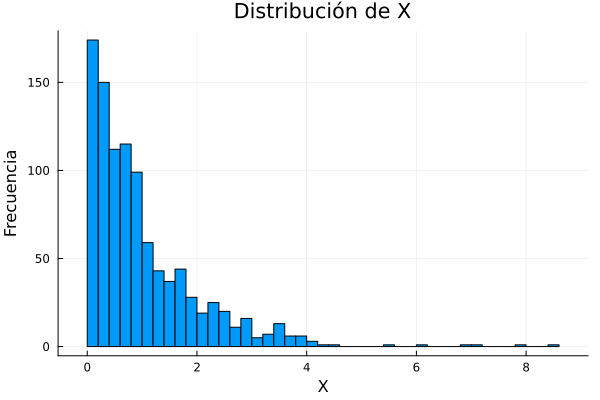
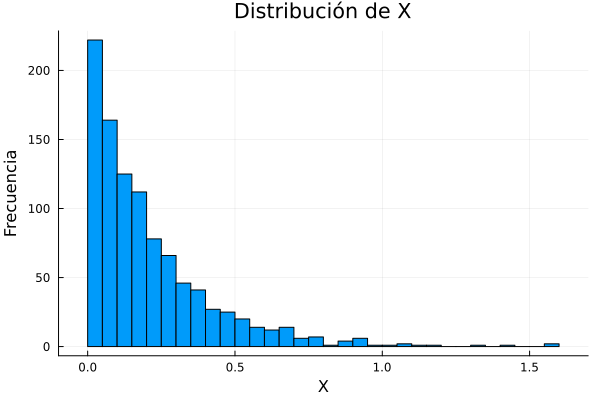
afinando detalles

diff --git a/README.md b/README.md
@@ -1,18 +1,18 @@
 # Blog
 
-En este repositorio está el código fuente para generar [mi blog](https://fcoavc.github.io/).
+En este repositorio está el código fuente para generar [mi blog](https://fcoavc.github.io/blog).
 
 En sitio se usa [Jekyll](https://jekyllrb.com/) para construir nuevos posts en el sitio.
 
 Simplemente se crea un nuevo archivo `yyyy-mm-dd-nombre.md` en la carpeta `docs/_posts` y automáticamente se incluirá en el blog.
 
-Para poder trabajar con los archivos markdown, se deben incluir los siguientes mestadatos en formato yaml:
+Para poder trabajar con los archivos markdown, se deben incluir los siguientes metadatos en formato yaml:
 
 - layout: post
-- title:  "Simulación de variables aleatorias"
+- title:  "Título del post"
 - date:   yyyy-mm-dd hh:mm:ss -0600
-- tags: simulación variable aleatoria uniforme probabilidad sas r  
-- author: 
+- tags: etiqueta1 etiqueta2 etiquetan
+- author: Nombre o username
 
 Es posible incluir fragmentos de código, por ejemplo:
 

diff --git a/_posts/2023-01-05-simulacion-variables-aleatorias1.md b/_posts/2023-01-05-simulacion-variables-aleatorias1.md
@@ -93,6 +93,7 @@ Para generar números aleatorios con Julia, se puede definir una función y desp
         x = -1*(1/l)*log.(1 .- u)
         return x
     end
+    x = rand_exp(1000,5)
     using StatsPlots
     histogram(x,xlabel="X", ylabel="Frecuencia",legend =:none)
     title!("Distribución de X")
@@ -124,6 +125,8 @@ mp.hist(x)
 mp.title('Distribución de $X$')
 mp.show()
 {% endhighlight %}
+
+![Histograma de la simulación con Python](/assets/sim_python.png)
 
 Para establecer un valor inicial, se puede usar la función `numpy.random.default_rng()`, por ejemplo `numpy.random.default_rng(seed=123)`.
 
